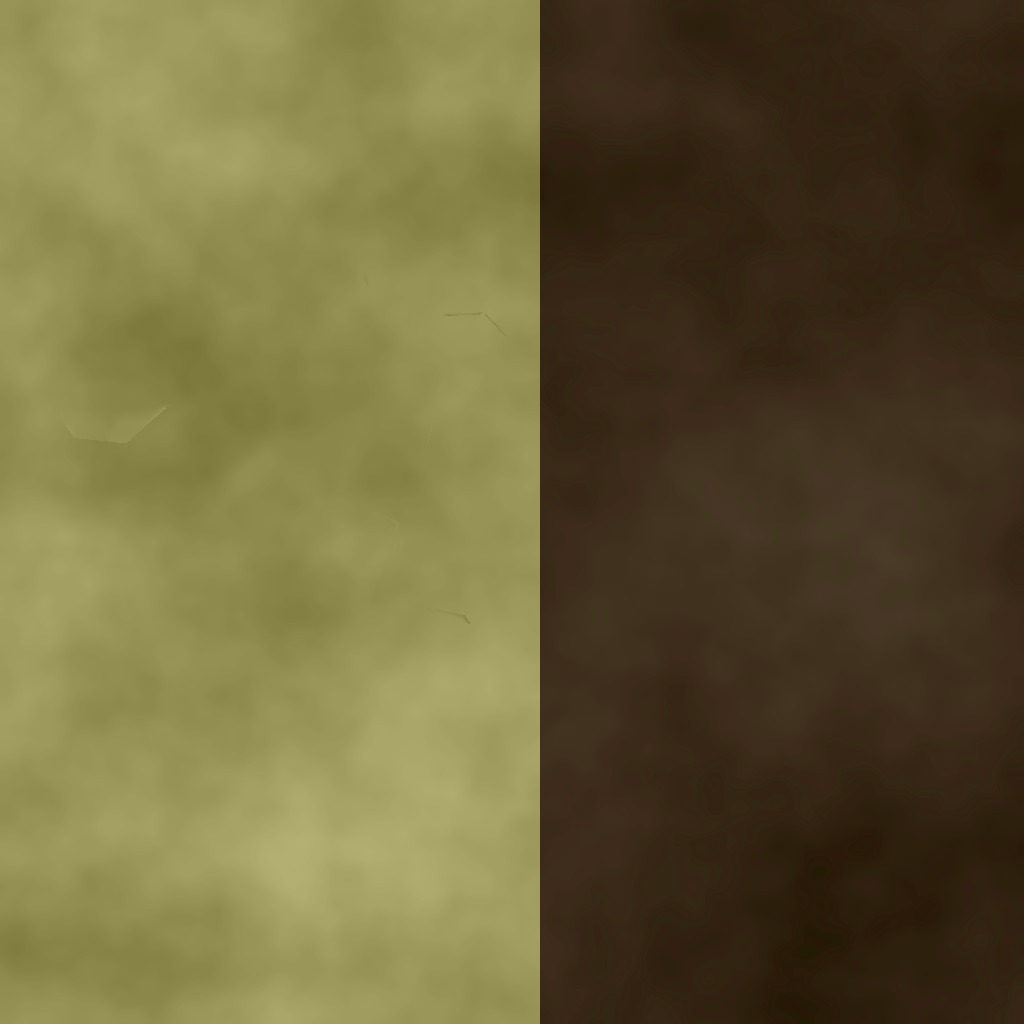
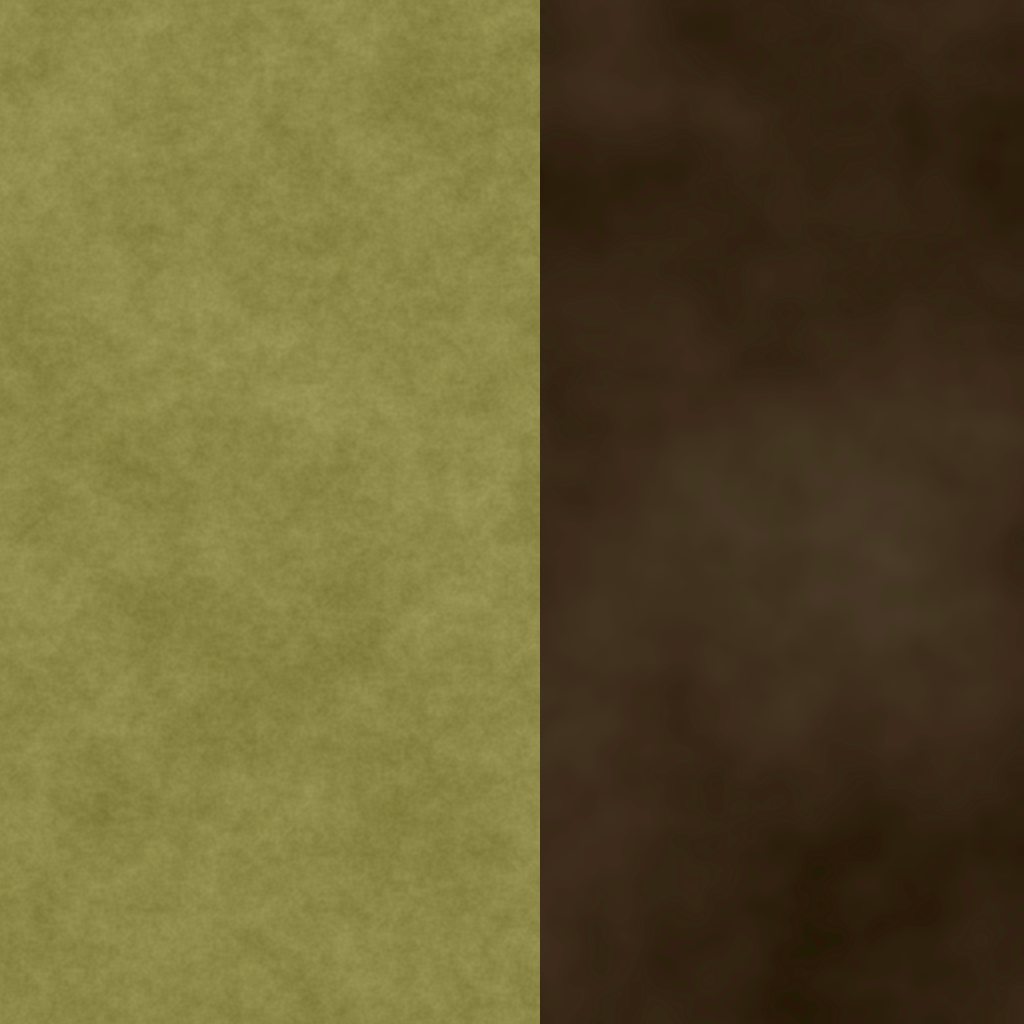
草にライティングつけた

diff --git a/Project/NewEngine/Collision/Grass.cpp b/Project/NewEngine/Collision/Grass.cpp
@@ -4,6 +4,13 @@
 using namespace VertexBufferData;
 using namespace ConstantBufferData;
 
+CMaterialColor Grass::sMaterialColor =
+{
+	Color(140,135,70,255),
+	Color(60,60,60,255),
+	Color(185,175,40,255),
+};
+
 Grass::Grass() :
 	pos(0, 0, 0), scale(1, 1, 1), rot(0, 0, 0),
 	mVertexBuffer(std::make_unique <VertexBuffer<VGrass>>()),
@@ -19,7 +26,6 @@ Grass::Grass() :
 
 	// マテリアルの初期化
 	MaterialInit();
-
 }
 void Grass::GenerateGrassToSquare(const Vec2 size, const uint32_t maxNum)
 {
@@ -38,7 +44,8 @@ void Grass::GenerateGrassToSquare(const Vec2 size, const uint32_t maxNum)
 			Random::RangeF(-size.y,+size.y),
 		};
 
-		mVertices[i].scale = Random::RangeF(0.5f, 1.0f);
+		mVertices[i].scale.x = Random::RangeF(1.0f, 2.0f);
+		mVertices[i].scale.y = Random::RangeF(1.0f, 2.0f);
 
 		// タイム設定
 		mTimers[i].SetLimitTimer(359);
@@ -94,6 +101,8 @@ void Grass::Draw()
 	// マテリアルの描画コマンド
 	MaterialDrawCommands();
 
+	LightManager::GetInstance()->DrawCommand(3);
+
 	// SRVのセット
 	uint32_t startIndex = mGraphicsPipeline->GetRootSignature()->GetSRVStartIndex();
 	renderBase->GetCommandList()->SetGraphicsRootDescriptorTable(startIndex, texture->GetBufferResource()->srvHandle.gpu);
@@ -124,6 +133,9 @@ void Grass::MaterialInit()
 	iConstantBuffer = std::make_unique<ConstantBuffer<CColor>>();
 	mMaterial.constantBuffers.push_back(std::move(iConstantBuffer));
 
+	iConstantBuffer = std::make_unique<ConstantBuffer<CMaterialColor>>();
+	mMaterial.constantBuffers.push_back(std::move(iConstantBuffer));
+
 	// 初期化
 	mMaterial.Init();
 }
@@ -148,6 +160,15 @@ void Grass::MaterialTransfer()
 	// 色
 	CColor colorData = { color.To01() };
 	TransferDataToConstantBuffer(mMaterial.constantBuffers[1].get(), colorData);
+
+	// マテリアル
+	CMaterialColor materialColorData =
+	{
+		sMaterialColor.ambient.To01(),
+		sMaterialColor.diffuse.To01(),
+		sMaterialColor.specular.To01(),
+	};
+	TransferDataToConstantBuffer(mMaterial.constantBuffers[2].get(), materialColorData);
 }
 void Grass::MaterialDrawCommands()
 {

diff --git a/Project/Application/SourceCode/Scene/GameScene.cpp b/Project/Application/SourceCode/Scene/GameScene.cpp
@@ -189,7 +189,6 @@ void GameScene::Update()
 		{
 			Camera::DebugCameraUpdate();
 		}
-
 	}
 
 	// シーン切り替えの処理
@@ -238,9 +237,19 @@ void GameScene::DrawDebugGui()
 
 	Gui::BeginWindow("Debug");
 
-	float bias = Object3D::sShadowBias;
-	Gui::DrawSlider1("Shadow Bias", bias, 0.0001f);
-	Object3D::sShadowBias = bias;
+	if (Gui::DrawCollapsingHeader("Grass") == true)
+	{
+		Gui::DrawColorEdit("Ambient", Grass::sMaterialColor.ambient);
+		Gui::DrawColorEdit("Diffuse", Grass::sMaterialColor.diffuse);
+		Gui::DrawColorEdit("Specular", Grass::sMaterialColor.specular);
+	}
+
+	if (Gui::DrawCollapsingHeader("ShadowMap") == true)
+	{
+		float bias = Object3D::sShadowBias;
+		Gui::DrawSlider1("Shadow Bias", bias, 0.0001f);
+		Object3D::sShadowBias = bias;
+	}
 
 	if (Gui::DrawCollapsingHeader("Fog") == true)
 	{
@@ -443,12 +452,12 @@ void GameScene::DrawCurrentSceneObject()
 	mField->DrawSkyIsLand();
 	mField->DrawSun();
 
-	//mField->DrawFog();
+	mField->DrawFog();
 	mPlayer->DrawModel();
 
 	mBoss->DrawModel();
 
 	EffectManager::GetInstance()->DrawEffect(false);
 
-	//mVolumetricFog->Draw();
+	mVolumetricFog->Draw();
 }

diff --git a/Project/Application/SourceCode/LoadManager.cpp b/Project/Application/SourceCode/LoadManager.cpp
@@ -103,7 +103,7 @@ void LoadManager::GameSceneTextureLoad()
 	TextureManager::LoadTexture("Trajectory.dds", "Trajectory");
 
 	// 草
-	TextureManager::LoadTexture("Grass/Weed.dds", "Weed");
+	TextureManager::LoadTexture("Grass/Weed.png", "Weed");
 	TextureManager::LoadTexture("Branch.dds", "Branch");
 
 	// 天球
@@ -192,7 +192,6 @@ void LoadManager::GameSceneTextureUnLoad()
 void LoadManager::GameSceneModelLoad()
 {
 	// フィールド
-	ModelManager::LoadObjModel("Ground", "Ground");
 	ModelManager::LoadObjModel("Skydome", "Skydome", true);
 	ModelManager::LoadObjModel("Cloud", "Cloud");
 	ModelManager::LoadObjModel("Tree", "Tree", true);

diff --git a/Project/Application/SourceCode/CreateManager.cpp b/Project/Application/SourceCode/CreateManager.cpp
@@ -288,7 +288,7 @@ void CreateManager::CreateGraphicsPipeline()
 	setting = PipelineManager::GetGraphicsPipeline("Emitter")->GetSetting();
 	setting.shaderObject = ShaderCompilerManager::GetShaderCompiler("Grass");
 	setting.rtvNum = 1;
-	setting.rootSignatureSetting.maxCbvRootParameter = 2;
+	setting.rootSignatureSetting.maxCbvRootParameter = 4;
 	setting.rootSignatureSetting.maxSrvDescritorRange = 2;
 	PipelineManager::CreateGraphicsPipeline(setting, "Grass");
 

diff --git a/Project/NewEngine/Object/3D/ParticleObject.cpp b/Project/NewEngine/Object/3D/ParticleObject.cpp
@@ -31,7 +31,7 @@ ParticleObject::~ParticleObject()
 
 	auto* descriptorHeap = DescriptorHeapManager::GetDescriptorHeap("SRV");
 
-	// ビュー解放
+	// ビュー解放	(落ちる時ある)
 	descriptorHeap->DestroyView(mModel->mesh.vertexBuffer.GetBufferResource());
 	descriptorHeap->DestroyView(mParticleData->GetBufferResource());
 	for (uint32_t i = 0; i < mCSMaterial->structuredBuffers.size(); i++)

diff --git a/Project/Application/SourceCode/Character/Boss.cpp b/Project/Application/SourceCode/Character/Boss.cpp
@@ -45,10 +45,15 @@ void Boss::Update()
 		{
 			if (Key::GetKeyDown(DIK_D))
 			{
-				mHpGaugeParam.value = 0;
+				mHpGaugeParam.value = 10;
 			}
 
 		});
+
+	if (Key::GetKeyDown(DIK_D))
+	{
+		mHpGaugeParam.value = 10;
+	}
 
 	float disToPlayer = Vec3::Distance(mPlayer->GetPos(), mBoss->pos);
 	if (disToPlayer <= 150.f)

diff --git a/Project/Application/SourceCode/Field/Weed.cpp b/Project/Application/SourceCode/Field/Weed.cpp
@@ -14,7 +14,7 @@ Weed::Weed() :
 void Weed::Init()
 {
 	float area = mGenerateSize.x * mGenerateSize.y;
-	mGrass->GenerateGrassToSquare(mGenerateSize, (uint32_t)(area * 4));
+	mGrass->GenerateGrassToSquare(mGenerateSize, (uint32_t)(area * 8));
 	mGrass->texture = TextureManager::GetTexture("Weed");
 }
 

diff --git a/Project/NewEngine/Debugger/DebugManager.cpp b/Project/NewEngine/Debugger/DebugManager.cpp
@@ -88,7 +88,7 @@ void DebugManager::DrawDebugGui()
 
 	Gui::EndWindow();
 
-	ImGui::ShowDemoWindow();
+	//ImGui::ShowDemoWindow();
 
 	mMappingWindow->DrawDebugGui();
 	mRendererWindow->DrawDebugGui();

diff --git a/Project/NewEngine/Collision/Grass.h b/Project/NewEngine/Collision/Grass.h
@@ -21,6 +21,7 @@ public:
 	Vec3 rot;
 	Color color;
 	Texture* texture;
+	static ConstantBufferData::CMaterialColor sMaterialColor;
 
 private:
 	void MaterialInit();
